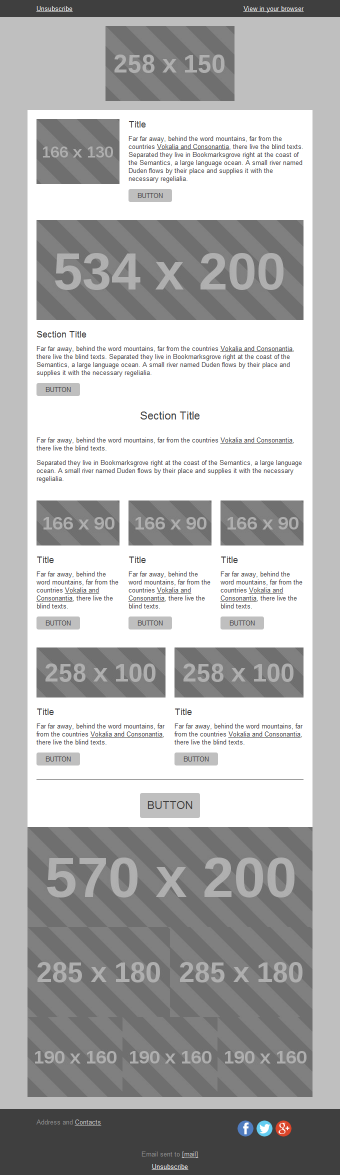
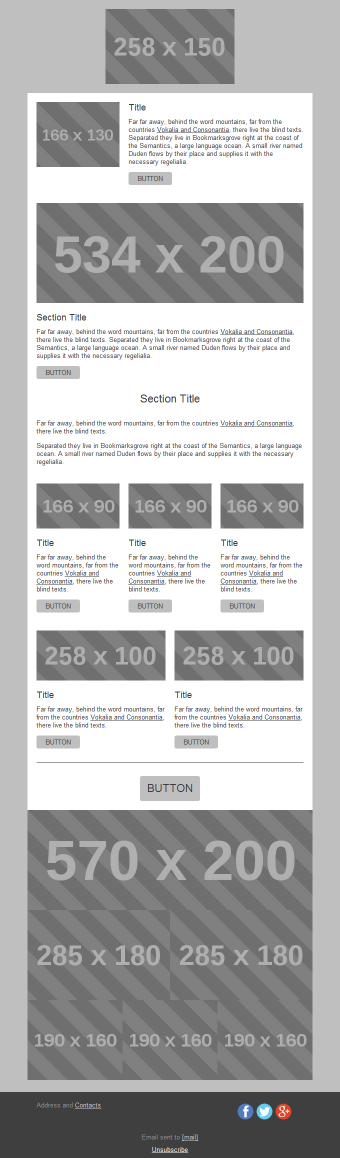
mosaico nyssbase adjustments

diff --git a/civicrm/custom/mosaico/nyssbase/template-nyssbase.html b/civicrm/custom/mosaico/nyssbase/template-nyssbase.html
@@ -41,17 +41,9 @@
       titleText {label:Title Text;category: hidden;}
       gutterVisible { label: Show Gutter; extend: visible }
       socialIconType { label: Icon Version;widget: select; options:bw=Black and White|colors=Colors; }
-
-      preheaderLinkOption {
-        label: Unsubscribe Link;
-        widget: select;
-        options: [profile_link]=Profile|[unsubscribe_link]=Unsubscribe|none=None;
-        help: If -None- is selected, preHeader text will be shown;
-      }
      
       hrStyle { label: Separator Style;properties:color hrWidth hrHeight; }
       hrStyle:preview { height: 200%; width: 200%; bottom: 20px; -ko-border-bottom: @[hrHeight]px solid @color; }
-      preheaderVisible { label: Show Preheader; extend: visible; help: Preheader block is the first one on the top of the page. It contains web version link and optionally unsubscribe link or a preheader text that will be shown as a preview on some email clients; }
 
       /* content types */
       blocks { label: Blocks; properties: blocks[]; }
@@ -94,8 +86,6 @@
       rightImage { label: Right Image; extend: image }
       rightLongText { label: Right Text; extend: text }
       rightButtonLink { label: Right Button; extend: buttonLink }
-      webversionText{ label: Web Link Text; extend: text;}
-      unsubscribeText{ label: Unsubscribe Link; extend: text;}
 
       titleVisible { label: Show Title; extend: visible; }
       buttonVisible { label: Show Button; extend: visible; }
@@ -108,9 +98,6 @@
       template preheaderText { label: Preheader; }
 
       template { label: Page; theme: frameTheme ;properties:  preheaderVisible=true; version: 1.0.5; }
-
-      footerBlock unsubscribeLinkStyle { label: Unsubscribe;  }
-      footerBlock { label: Unsubscribe Block; theme: frameTheme }
       
       socialBlock fbVisible { label: Facebook; }
       socialBlock twVisible { label: Twitter }
@@ -402,75 +389,6 @@
   -ko-attr-vlink: @_theme_.frameTheme.longTextStyle.linksColor">
 
   <center>
-
-  <!-- preheaderBlock -->
-  <div data-ko-display="preheaderVisible" data-ko-wrap="false">
-
-  <table class="vb-outer" width="100%" cellpadding="0" border="0" cellspacing="0" bgcolor="#3f3f3f"
-    style="background-color: #3f3f3f; -ko-background-color: @backgroundColor; -ko-attr-bgcolor: @backgroundColor" data-ko-block="preheaderBlock">
-    <tr>
-      <td class="vb-outer" align="center" valign="top" bgcolor="#3f3f3f"
-        style="background-color: #3f3f3f; -ko-background-color: @backgroundColor; -ko-attr-bgcolor: @backgroundColor">
-        <div style="display: none; font-size:1px; color: #333333; line-height: 1px; max-height:0px; max-width: 0px; opacity: 0; overflow: hidden; 
-          -ko-bind-text: @preheaderText"></div>
-
-<!--[if (gte mso 9)|(lte ie 8)]><table align="center" border="0" cellspacing="0" cellpadding="0" width="570"><tr><td align="center" valign="top"><![endif]-->
-        <div class="oldwebkit">
-        <table width="570" border="0" cellpadding="0" cellspacing="0" class="vb-row halfpad" bgcolor="#3f3f3f" 
-          style="width: 100%; max-width: 570px; background-color: #3f3f3f; -ko-attr-bgcolor: @backgroundColor; -ko-background-color: @backgroundColor;">
-          <tr>
-            <td align="center" valign="top" bgcolor="#3f3f3f" style="font-size: 0; background-color: #3f3f3f;
-              -ko-attr-bgcolor: @backgroundColor; -ko-background-color: @backgroundColor" align="left">
-
-<!--[if (gte mso 9)|(lte ie 8)]><table align="center" border="0" cellspacing="0" cellpadding="0" width="552"><tr><![endif]-->
-<!--[if (gte mso 9)|(lte ie 8)]><td align="left" valign="top" width="276"><![endif]--> 
-<div style="display:inline-block; max-width:276px; vertical-align:top; width:100%;" class="mobile-full"> 
-                    <table class="vb-content" border="0" cellspacing="9" cellpadding="0" width="276" style="width: 100%;" align="left">
-                      <tr>
-                        <td width="100%" valign="top" align="left" style="font-weight: normal; text-align:left; font-size: 13px;
-                          font-family: Arial, Helvetica, sans-serif; color: #ffffff;
-                          -ko-font-size: @[linkStyle.size]px; -ko-color: @linkStyle.color; -ko-font-family: @linkStyle.face">
-                          <a data-ko-display="preheaderLinkOption neq 'none'" data-ko-editable="unsubscribeText" href="[unsubscribe_link]" 
-                             style="text-decoration: underline; color: #ffffff; -ko-attr-href: @preheaderLinkOption; 
-                             -ko-color: @linkStyle.color; -ko-text-decoration: @linkStyle.decoration">Unsubscribe</a> 
-                          <span data-ko-display="preheaderLinkOption eq 'none'" style="font-size: 13px;color: #919191; font-weight: normal; text-align:center;
-                            font-family: Arial, Helvetica, sans-serif; -ko-font-size: @[longTextStyle.size]px; -ko-color: @longTextStyle.color;
-                            -ko-font-family: @longTextStyle.face; -ko-bind-text: @preheaderText; display: none"></span>
-                        </td>
-                      </tr>
-                    </table>
-</div><!--[if (gte mso 9)|(lte ie 8)]>
-</td><td align="left" valign="top" width="276">
-<![endif]--><div style="display:inline-block; max-width:276px; vertical-align:top; width:100%;" class="mobile-full mobile-hide"> 
-
-                    <table class="vb-content" border="0" cellspacing="9" cellpadding="0" width="276" style="width: 100%; text-align: right;" align="left">
-                      <tr>
-                        <td width="100%" valign="top" style="font-weight: normal;  font-size: 13px; font-family: Arial, Helvetica, sans-serif; color: #ffffff;
-                      -ko-font-size: @[linkStyle.size]px; -ko-color: @linkStyle.color; -ko-font-family: @linkStyle.face">
-                      <span style="color: #ffffff; text-decoration: underline;
-                        -ko-color: @linkStyle.color; -ko-text-decoration: @linkStyle.decoration">
-                          <a data-ko-editable="webversionText" href="[show_link]" 
-                          style="text-decoration: underline; color: #ffffff;
-                           -ko-color: @linkStyle.color; -ko-text-decoration: @linkStyle.decoration">View in your browser</a>
-                         </span>
-                       </td>
-                      </tr>
-                    </table>
-
-</div><!--[if (gte mso 9)|(lte ie 8)]>
-</td></tr></table><![endif]-->
-
-            </td>
-          </tr>
-        </table>
-        </div>
-<!--[if (gte mso 9)|(lte ie 8)]></td></tr></table><![endif]-->
-      </td>
-    </tr>
-  </table>
-
-  </div>
-  <!-- /preheaderBlock -->
 
   <div data-ko-container="main" data-ko-wrap="false">
 
